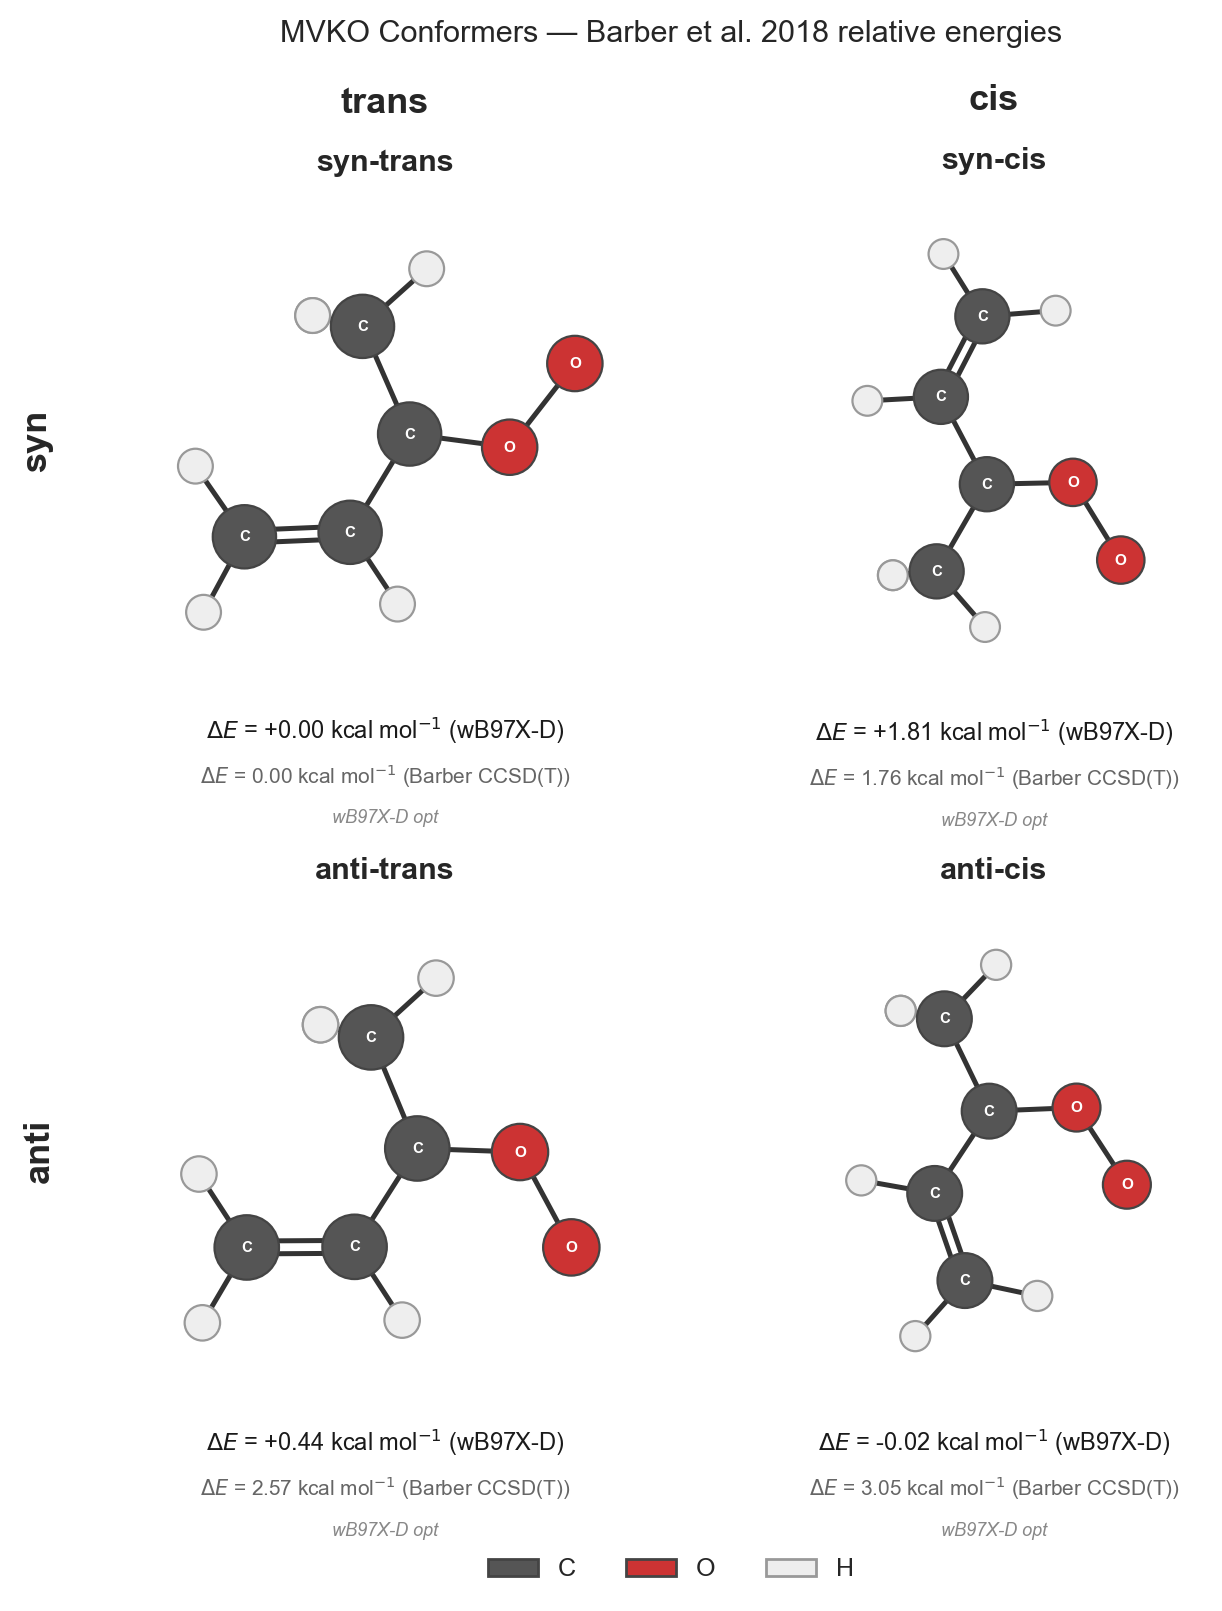
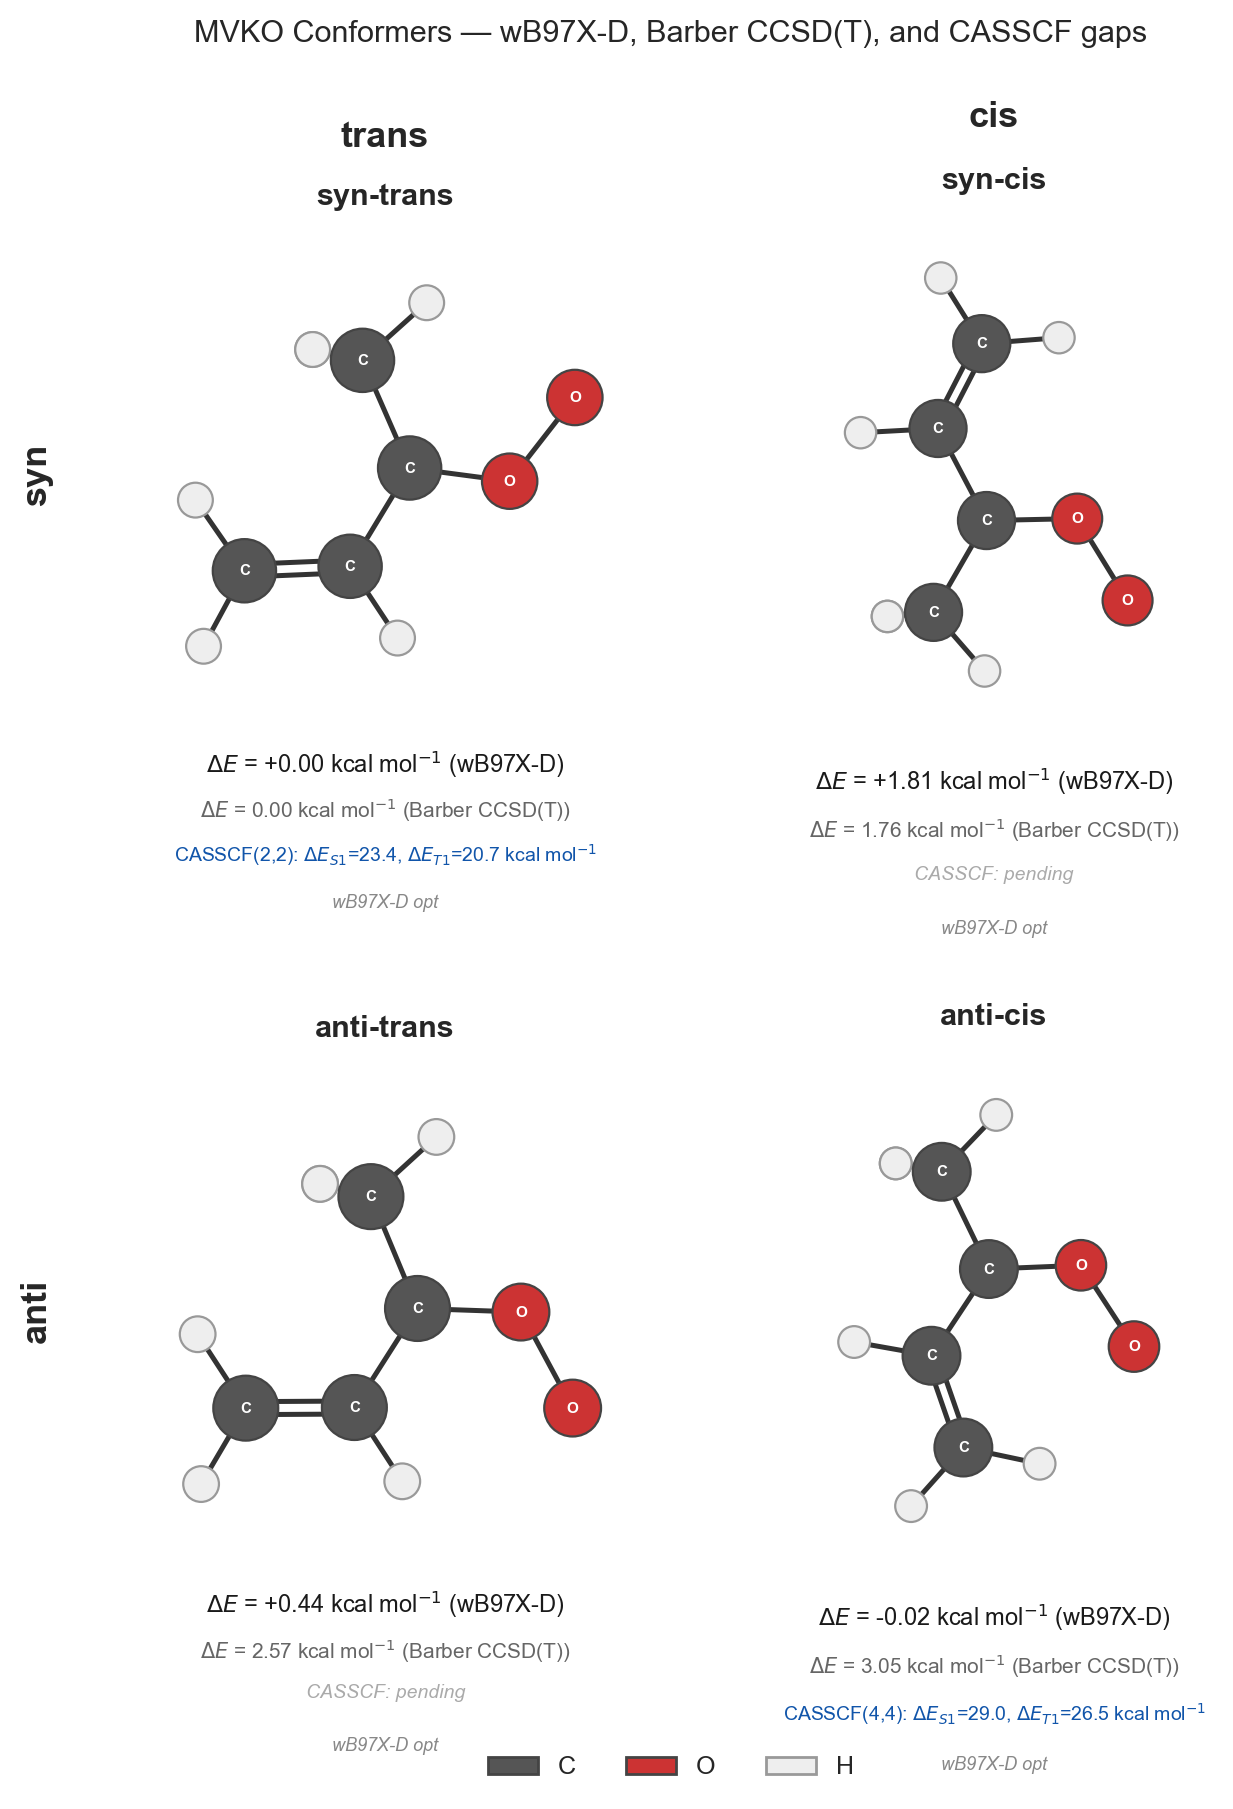
Add CASSCF S1/T1 gaps to conformer figure; load_casscf_gaps() helper
plot_mvko_conformers.py:
- load_casscf_gaps(): reads eq_reference JSON for syn-trans (CASSCF(2,2))
  and anti-cis (CASSCF(4,4)); returns gap_S1, gap_T1, active_space label
- _draw_conformer(): new casscf_gaps parameter adds blue CASSCF gap line
  per panel; shows "CASSCF: pending" in grey for conformers without data
- Figure height 8.0→9.0, hspace 0.36→0.52 to accommodate extra text row
- Title updated to reflect three data sources shown

diff --git a/plot_mvko_conformers.py b/plot_mvko_conformers.py
@@ -92,6 +92,34 @@ def load_our_energies():
     return {name: (e - e0) * KCAL for name, e in raw.items()}
 
 
+def load_casscf_gaps():
+    """
+    Load CASSCF S1/T1 gaps at equilibrium for each conformer.
+    Returns dict {name: {'gap_s1': float, 'gap_t1': float, 'active_space': str}}
+    or empty dict for conformers without data.
+    """
+    sources = {
+        'syn-trans': ('outputs/syn_trans_casscf22_eq_ref.json', '(2,2)'),
+        'anti-cis':  ('outputs/casscf_wB97X_nm_grid_20260407_184904/eq_reference.json', '(4,4)'),
+    }
+    out = {}
+    for name, (path, cas) in sources.items():
+        p = Path(path)
+        if not p.exists():
+            continue
+        r = json.loads(p.read_text())
+        e_s0 = r.get('e_casscf_s0_eq_ha') or r.get('singlet', {}).get('e_s0')
+        gap_s1 = r.get('gap_s1_eq_kcal')
+        gap_t1 = r.get('gap_t1_eq_kcal')
+        if gap_s1 is None:
+            s = r.get('singlet', {}); t = r.get('triplet', {})
+            gap_s1 = (s['e_s1'] - e_s0) * KCAL if s.get('e_s1') else None
+            gap_t1 = (t['e_t1'] - e_s0) * KCAL if t.get('e_t1') else None
+        if e_s0 is not None:
+            out[name] = {'gap_s1': gap_s1, 'gap_t1': gap_t1, 'active_space': cas}
+    return out
+
+
 def load_conformer_geometries():
     """Return dict of {name: (coords, symbols, status)} for the four conformers."""
 
@@ -151,7 +179,8 @@ def _get_bonds(coords, symbols):
 # ---------------------------------------------------------------------------
 # Draw one conformer panel
 # ---------------------------------------------------------------------------
-def _draw_conformer(ax, coords, symbols, label, barber_kcal, status, our_kcal=None):
+def _draw_conformer(ax, coords, symbols, label, barber_kcal, status,
+                    our_kcal=None, casscf_gaps=None):
     xy = coords[:, :2]
     bonds = _get_bonds(coords, symbols)
 
@@ -201,16 +230,32 @@ def _draw_conformer(ax, coords, symbols, label, barber_kcal, status, our_kcal=No
                 f'$\\Delta E$ = {our_kcal:+.2f} kcal mol$^{{-1}}$ (wB97X-D)',
                 transform=ax.transAxes, ha='center', va='top', fontsize=8.5,
                 color='#1a1a1a')
-        # Barber reference (secondary, smaller, grey)
         ax.text(0.5, -0.12,
                 f'$\\Delta E$ = {barber_kcal:.2f} kcal mol$^{{-1}}$ (Barber CCSD(T))',
                 transform=ax.transAxes, ha='center', va='top', fontsize=7.5,
                 color='#666666')
-        y_status = -0.21
+        y_cas = -0.21
     else:
         ax.text(0.5, -0.03, f'$\\Delta E$ = {barber_kcal:.2f} kcal mol$^{{-1}}$',
                 transform=ax.transAxes, ha='center', va='top', fontsize=9.5)
-        y_status = -0.11
+        y_cas = -0.11
+
+    # CASSCF gap line
+    if casscf_gaps is not None:
+        cas = casscf_gaps['active_space']
+        s1  = casscf_gaps['gap_s1']
+        t1  = casscf_gaps['gap_t1']
+        gap_txt = (f'CASSCF{cas}: '
+                   f'$\\Delta E_{{S1}}$={s1:.1f}, $\\Delta E_{{T1}}$={t1:.1f} kcal mol$^{{-1}}$')
+        ax.text(0.5, y_cas, gap_txt,
+                transform=ax.transAxes, ha='center', va='top', fontsize=7.0,
+                color='#1155aa')
+        y_status = y_cas - 0.10
+    else:
+        ax.text(0.5, y_cas, 'CASSCF: pending',
+                transform=ax.transAxes, ha='center', va='top', fontsize=7.0,
+                color='#aaaaaa', style='italic')
+        y_status = y_cas - 0.10
 
     # status line (small, grey)
     ax.text(0.5, y_status, status,
@@ -222,8 +267,9 @@ def _draw_conformer(ax, coords, symbols, label, barber_kcal, status, our_kcal=No
 # Main
 # ---------------------------------------------------------------------------
 def main():
-    geoms   = load_conformer_geometries()
-    our_de  = load_our_energies()   # wB97X-D/6-31G* ΔE (kcal/mol), may be empty
+    geoms      = load_conformer_geometries()
+    our_de     = load_our_energies()    # wB97X-D/6-31G* ΔE (kcal/mol), may be empty
+    casscf_de  = load_casscf_gaps()     # CASSCF S1/T1 gaps, keyed by conformer name
 
     # Barber et al. 2018 CCSD(T)/aug-cc-pVTZ//B3LYP relative energies
     BARBER_DE = {'syn-trans': 0.00, 'syn-cis': 1.76,
@@ -236,8 +282,8 @@ def main():
         (1, 1, 'anti-cis'),
     ]
 
-    fig, axes = plt.subplots(2, 2, figsize=(7.5, 8.0),
-                              gridspec_kw={'wspace': 0.10, 'hspace': 0.36})
+    fig, axes = plt.subplots(2, 2, figsize=(7.5, 9.0),
+                              gridspec_kw={'wspace': 0.10, 'hspace': 0.52})
 
     any_approx = False
     for row, col, name in layout:
@@ -246,7 +292,8 @@ def main():
             any_approx = True
         _draw_conformer(axes[row][col], coords, symbols,
                         name, BARBER_DE[name], status,
-                        our_kcal=our_de.get(name))
+                        our_kcal=our_de.get(name),
+                        casscf_gaps=casscf_de.get(name))
 
     # row / column headers
     for ax, hdr in zip(axes[:, 0], ['syn', 'anti']):
@@ -268,7 +315,7 @@ def main():
 
     # title
     fig.text(0.5, 0.98,
-             'MVKO Conformers — Barber et al. 2018 relative energies',
+             'MVKO Conformers — wB97X-D, Barber CCSD(T), and CASSCF gaps',
              ha='center', va='top', fontsize=11)
     if any_approx:
         fig.text(0.5, 0.945,
